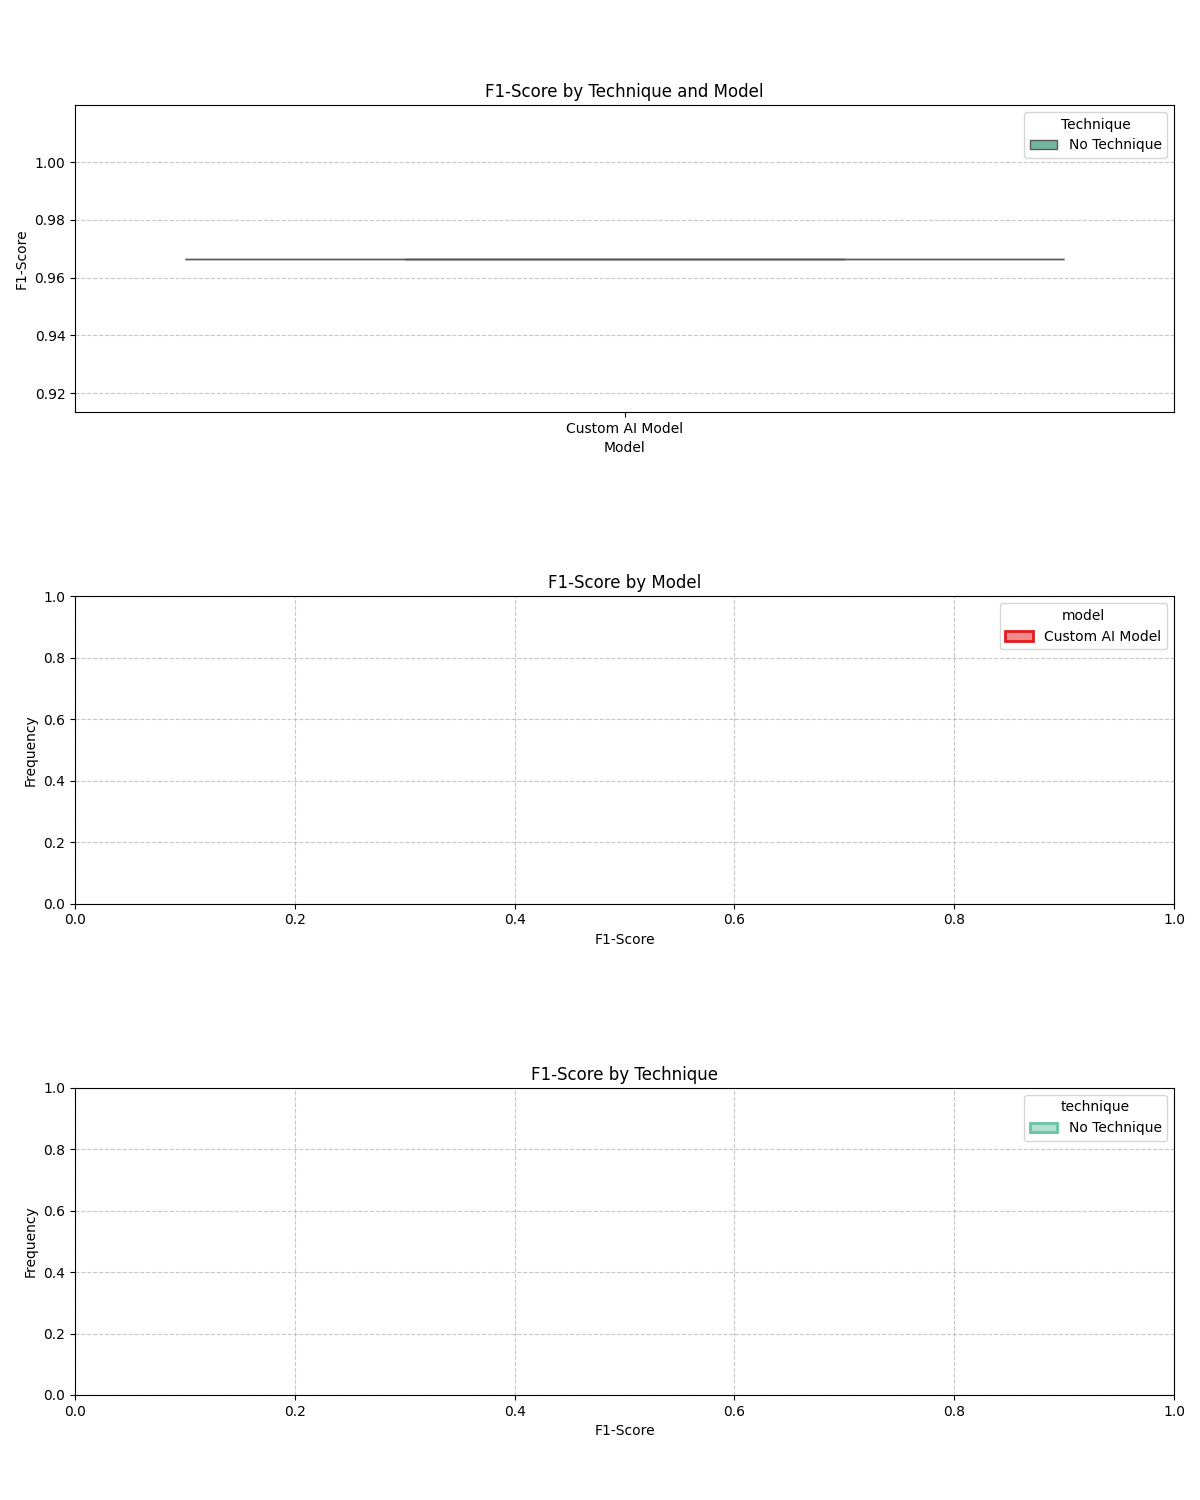
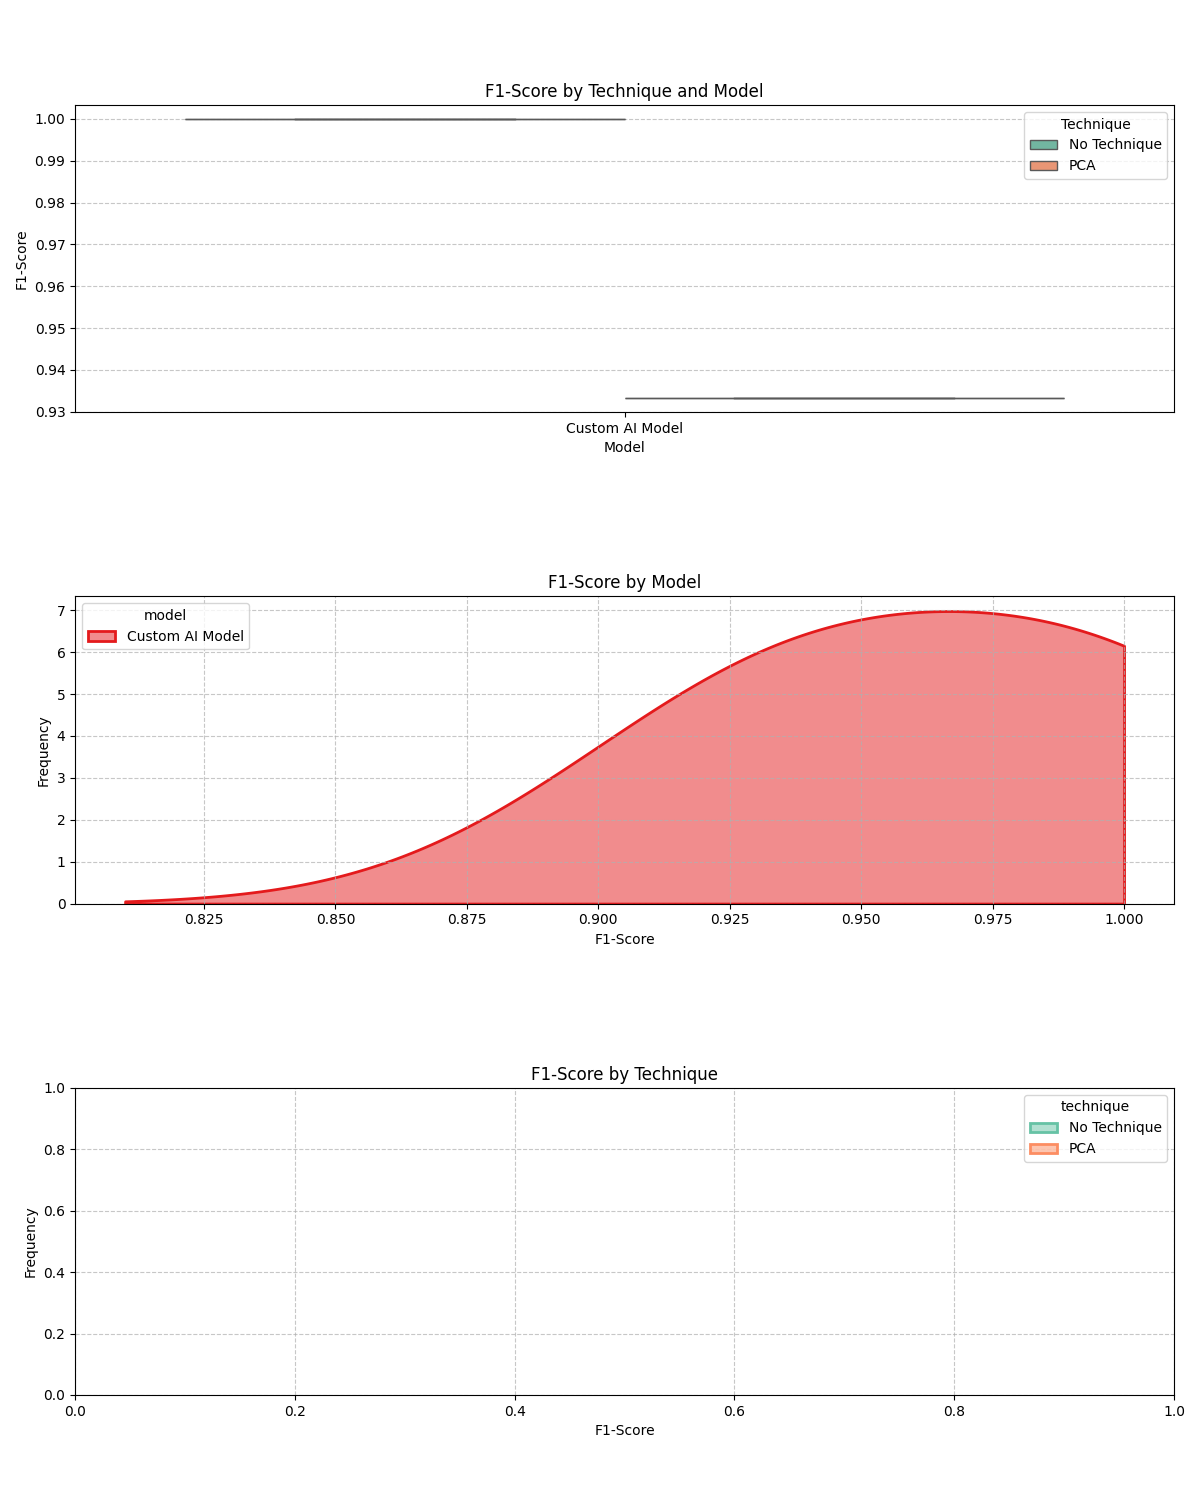
several fixes

diff --git a/code/program_xlsx_and_pdf.py b/code/program_xlsx_and_pdf.py
@@ -5,25 +5,23 @@ from reportlab.lib.pagesizes import letter
 from reportlab.pdfgen import canvas
 import os
 
-# Function to cut the PNG image into horizontal parts based on the height of each part
 def cut_image(input_image_path, part_height):
     # Open the image using PIL
     img = Image.open(input_image_path)
     width, height = img.size
     
-    num_parts = height // part_height  # Calculate number of parts
-    remainder = height % part_height  # Check if there is any remainder for the last part
+    num_parts = height // part_height 
+    remainder = height % part_height  
     
     parts = []
     for i in range(num_parts):
         top = i * part_height
         bottom = (i + 1) * part_height
         
-        # Slice the image horizontally
         part = img.crop((0, top, width, bottom))
         parts.append(part)
     
-    if remainder > 0:  # If there's leftover height, add the final part
+    if remainder > 0:  
         top = num_parts * part_height
         bottom = height
         part = img.crop((0, top, width, bottom))
@@ -31,7 +29,6 @@ def cut_image(input_image_path, part_height):
     
     return parts
 
-# Function to save the sliced parts into a PDF
 def save_parts_to_pdf(parts, output_pdf_path):
     c = canvas.Canvas(output_pdf_path, pagesize=letter)
 
@@ -52,7 +49,24 @@ def csv_to_xlsx(csv_file_path, output_path):
 
     df = pd.read_csv(csv_file_path)
 
+    numeric_cols = df.select_dtypes(include=[np.number]).columns
+
+    grouped = df.groupby(df.select_dtypes(exclude=[np.number]).columns.tolist()).agg({
+        col: ["mean", "std"] for col in numeric_cols
+    })
+
+    grouped.columns = ['_'.join(col).strip() for col in grouped.columns]
+
+    for col in numeric_cols:
+        mean_col = f"{col}_mean"
+        std_col = f"{col}_std"
+        grouped[f"{col} ±"] = grouped[mean_col].round(2).astype(str) + " ± " + grouped[std_col].round(2).astype(str)
+        grouped.drop(columns=[mean_col, std_col], inplace=True)
+
+    grouped.reset_index(inplace=True)
+
     df.to_excel(output_path, index=False, engine='openpyxl')
+    grouped.to_excel("results table//resumed results.xlsx", index=False, engine='openpyxl')
 
 def main():
     input_image_path = 'results image//graphs.png'
@@ -61,7 +75,6 @@ def main():
     
     parts = cut_image(input_image_path, part_height)
     save_parts_to_pdf(parts, output_pdf_path)
-    #os.remove('temp_part.png')
 
     input_csv = "results table//results.csv"
     output_excel_csv = "results table//results.xlsx"

diff --git a/code/program_analysis.py b/code/program_analysis.py
@@ -103,10 +103,10 @@ class PerformAnalysis:
     '''
     def __init__(self, technique, model, optimization, X_train, X_test, y_train, y_test):
 
-        self.X_train = X_train
-        self.X_test = X_test
-        self.y_train = y_train
-        self.y_test = y_test
+        self.X_train = X_train.to_numpy()
+        self.X_test = X_test.to_numpy()
+        self.y_train = y_train.to_numpy()
+        self.y_test = y_test.to_numpy()
         self.y_pred = None
 
         if technique == 'PCA':
@@ -200,21 +200,22 @@ class PerformAnalysis:
             spec.loader.exec_module(module)
             return getattr(module, class_name)
         
-        if model == "Custom AI Model":
-            class_name = find_first_class("custom AI model\\custom AI model.py")
-            user_model = load_class_from_file("custom AI model\\custom AI model.py", class_name)
-
         model_dict = {'Naive Bayes': GaussianNB(),
                       'SVM': SVC(),
-                      'MLP': MLPClassifier(hidden_layer_sizes=(100, 50, 25)),
+                      'MLP': MLPClassifier(n_iter_no_change=500),
                       'DecisionTree': DecisionTreeClassifier(),
                       'RandomForest': RandomForestClassifier(n_jobs=-1),
                       'KNN': KNeighborsClassifier(),
                       'LogReg': LogisticRegression(),
                       'GradientBoost': GradientBoostingClassifier(),
-                      'XGBoost': xgb.XGBClassifier(),
-                      'Custom AI Model': user_model()
+                      'XGBoost': xgb.XGBClassifier()
                      }
+
+        if model == "Custom AI Model":
+            class_name = find_first_class("custom AI model\\custom AI model.py")
+            user_model = load_class_from_file("custom AI model\\custom AI model.py", class_name)
+            model_dict["Custom AI Model"] = user_model()
+
 
         if optimization == 'Grid Search':
             try:

diff --git a/code/Best_Classification_AI.java b/code/Best_Classification_AI.java
@@ -81,8 +81,32 @@ public class Best_Classification_AI extends JFrame implements ActionListener {
         pack();
         setLocationRelativeTo(null);
         setVisible(true);
+
+        addWindowListener(new WindowAdapter() {
+            @Override
+            public void windowClosing(WindowEvent e) {
+                handleWindowClosing();
+            }
+        });
     }
 
+    private void handleWindowClosing() {
+        // Check if the cleaned data file exists and delete it if present
+        Path filePath = Paths.get("resources\\cleaned_data.csv");
+        try {
+            if (Files.exists(filePath)) {
+                Files.delete(filePath);
+            }
+        } catch (IOException ex) {
+            ex.printStackTrace();
+            JOptionPane.showMessageDialog(this, "Error deleting cleaned data file: " + ex.getMessage(), "Error", JOptionPane.ERROR_MESSAGE);
+        }
+
+        // Dispose of the frame and exit
+        dispose();
+        System.exit(0);
+    }
+    
     private void createCSVSelectionPage() {
         csvSelectionPage = new JPanel();
         csvSelectionPage.setLayout(new BorderLayout());
@@ -431,6 +455,8 @@ public class Best_Classification_AI extends JFrame implements ActionListener {
 
                         int exitCode = process.waitFor();
                         if (exitCode != 0) {
+                            //Path filePath = Paths.get("resources\\cleaned_data.csv");
+                            //Files.delete(filePath);
                             JOptionPane.showMessageDialog(this, "Error on the analysis script", "Error", JOptionPane.ERROR_MESSAGE);
                             //System.exit(0);
                         }

diff --git a/custom AI model/custom AI model.py b/custom AI model/custom AI model.py
@@ -1,5 +1,4 @@
 import numpy as np
-import pandas as pd
 
 class NaiveBayes:
     def __init__(self):
@@ -9,9 +8,6 @@ class NaiveBayes:
         self.var = None
 
     def fit(self, X, y):
-        X = X.to_numpy() if isinstance(X, pd.Series) else X
-        y = y.to_numpy() if isinstance(y, pd.Series) else y
-        
         self.classes = np.unique(y)
         n_samples, n_features = X.shape
         n_classes = len(self.classes)
@@ -34,7 +30,6 @@ class NaiveBayes:
         return numerator / denominator
 
     def predict_proba(self, X):
-        X = X.to_numpy() if isinstance(X, pd.Series) else X
         n_samples = X.shape[0]
         n_classes = len(self.classes)
         probs = np.zeros((n_samples, n_classes))
@@ -42,12 +37,11 @@ class NaiveBayes:
         for i in range(n_samples):
             for idx, cls in enumerate(self.classes):
                 class_prior = np.log(self.class_prior[idx])
-                conditional = np.sum(np.log(self._gaussian_probability(idx, X.iloc[i])))
+                conditional = np.sum(np.log(self._gaussian_probability(idx, X[i])))
                 probs[i, idx] = class_prior + conditional
 
         return np.exp(probs) / np.sum(np.exp(probs), axis=1, keepdims=True)
 
     def predict(self, X):
-        X = X.to_numpy() if isinstance(X, pd.Series) else X
         probs = self.predict_proba(X)
-        return pd.Series(self.classes[np.argmax(probs, axis=1)], index=X.index)
+        return self.classes[np.argmax(probs, axis=1)]

diff --git a/code/program_plot.py b/code/program_plot.py
@@ -5,8 +5,6 @@ import seaborn as sns
 import pandas as pd
 from scipy.stats import kruskal
 from scipy.stats import f_oneway
-from statsmodels.stats.multicomp import pairwise_tukeyhsd
-from scikit_posthocs import posthoc_dunn
 from PIL import Image
 
 def plot_all():
@@ -50,7 +48,7 @@ def plot_all():
         axes[row].set_ylabel('Frequency')
         axes[row].grid(True, linestyle='--', alpha=0.7)
         groups = [filtered_data[filtered_data['model'] == model][metric] for model in filtered_data['model'].unique()]
-        if len(groups) > 1:
+        if len(groups) > 1 and groups[0].size > 3:
             stat_kruskal, p_value_kruskal = kruskal(*groups)
             stat_anova, p_value_anova = f_oneway(*groups)
             y_pos = axes[row].get_ylim()[0] - 0.2
@@ -79,7 +77,7 @@ def plot_all():
         axes[row].set_ylabel('Frequency')
         axes[row].grid(True, linestyle='--', alpha=0.7)
         groups = [filtered_data[filtered_data['technique'] == technique][metric] for technique in filtered_data['technique'].unique()]
-        if len(groups) > 1:
+        if len(groups) > 1 and groups[0].size > 3:
             stat_kruskal, p_value_kruskal = kruskal(*groups)
             stat_anova, p_value_anova = f_oneway(*groups)
             y_pos = axes[row].get_ylim()[0] - 0.2

diff --git a/custom AI model/read_me_custom_model.md b/custom AI model/read_me_custom_model.md
@@ -1,9 +1,11 @@
 # Overview
-You are able to test your own classification model against the others here. This could lead to some erros, so be mindful of the requirements
+You are able to test your own classification model against the others here. This could lead to some erros, so be mindful of the requirements.
+
 
 # Requirements
+Your file must be located in this folder and be named "custom AI model.py"
 Your code must contain a class, only the first class of the code will be considered
-Your model must be able to handle the X input as a pandas Dataframe and handle the y input as a pandas Series
+Your model must be able to handle the X and y inputs being numpy arrays
 Your class must contain the following methods:
 - fit
 - predict

diff --git a/readme.md b/readme.md
@@ -26,3 +26,4 @@ Some data changes are very basic or essential for the all the models to work and
 - Your CSV must allow for supervisioned classification AIs.
 - The target variable (y) column must be the last column of the CSV.
 - This software peforms some data cleaning, but proper cleaning done by the user is reccomended
+- Do not open a new instance 
